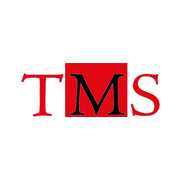
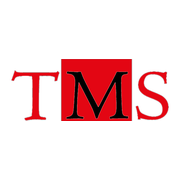
cc

Changed region(s): [[0.0556, 0.3056, 0.9444, 0.6944]]

diff --git a/index.html b/index.html
@@ -11,7 +11,7 @@
   <!-- Favicons 
   <link href="assets/img/favicon.ico" rel="icon" sizes="any">-->
   <link href="assets/img/favicon.png" rel="icon" type="image/png">
-  <link href="assets/img/apple-touch-icon.png" rel="apple-touch-icon">
+  <!-- <link href="assets/img/apple-touch-icon.png" rel="apple-touch-icon"> -->
 
   <!-- Fonts -->
   <link href="https://fonts.googleapis.com" rel="preconnect">
@@ -35,7 +35,7 @@
     <div class="container position-relative d-flex align-items-center justify-content-between">
 
       <a href="index.html" class="logo d-flex align-items-center me-auto me-xl-0">
-        <img src="assets/img/logo.png" alt="Total Media Solutions">
+        <img src="assets/img/favicon.png" alt="Total Media Solutions">
       </a>
 
       <nav id="navmenu" class="navmenu">

diff --git a/assets/css/main.css b/assets/css/main.css
@@ -238,10 +238,14 @@ h6 {
 }
 
 .header .logo img {
-  max-height: 72px;
+  max-height: 56px;
   width: auto;
   margin-right: 8px;
-  background: transparent;
+  background: #ffffff;
+  border-radius: 10px;
+  padding: 4px 8px;
+  object-fit: contain;
+  box-shadow: 0 2px 10px rgba(0, 0, 0, 0.18);
 }
 
 .header .logo h1 {
@@ -271,6 +275,12 @@ h6 {
 @media (max-width: 1200px) {
   .header .logo {
     order: 1;
+  }
+
+  .header .logo img {
+    max-height: 44px;
+    padding: 3px 6px;
+    border-radius: 8px;
   }
 
   .header .logo h1 {
